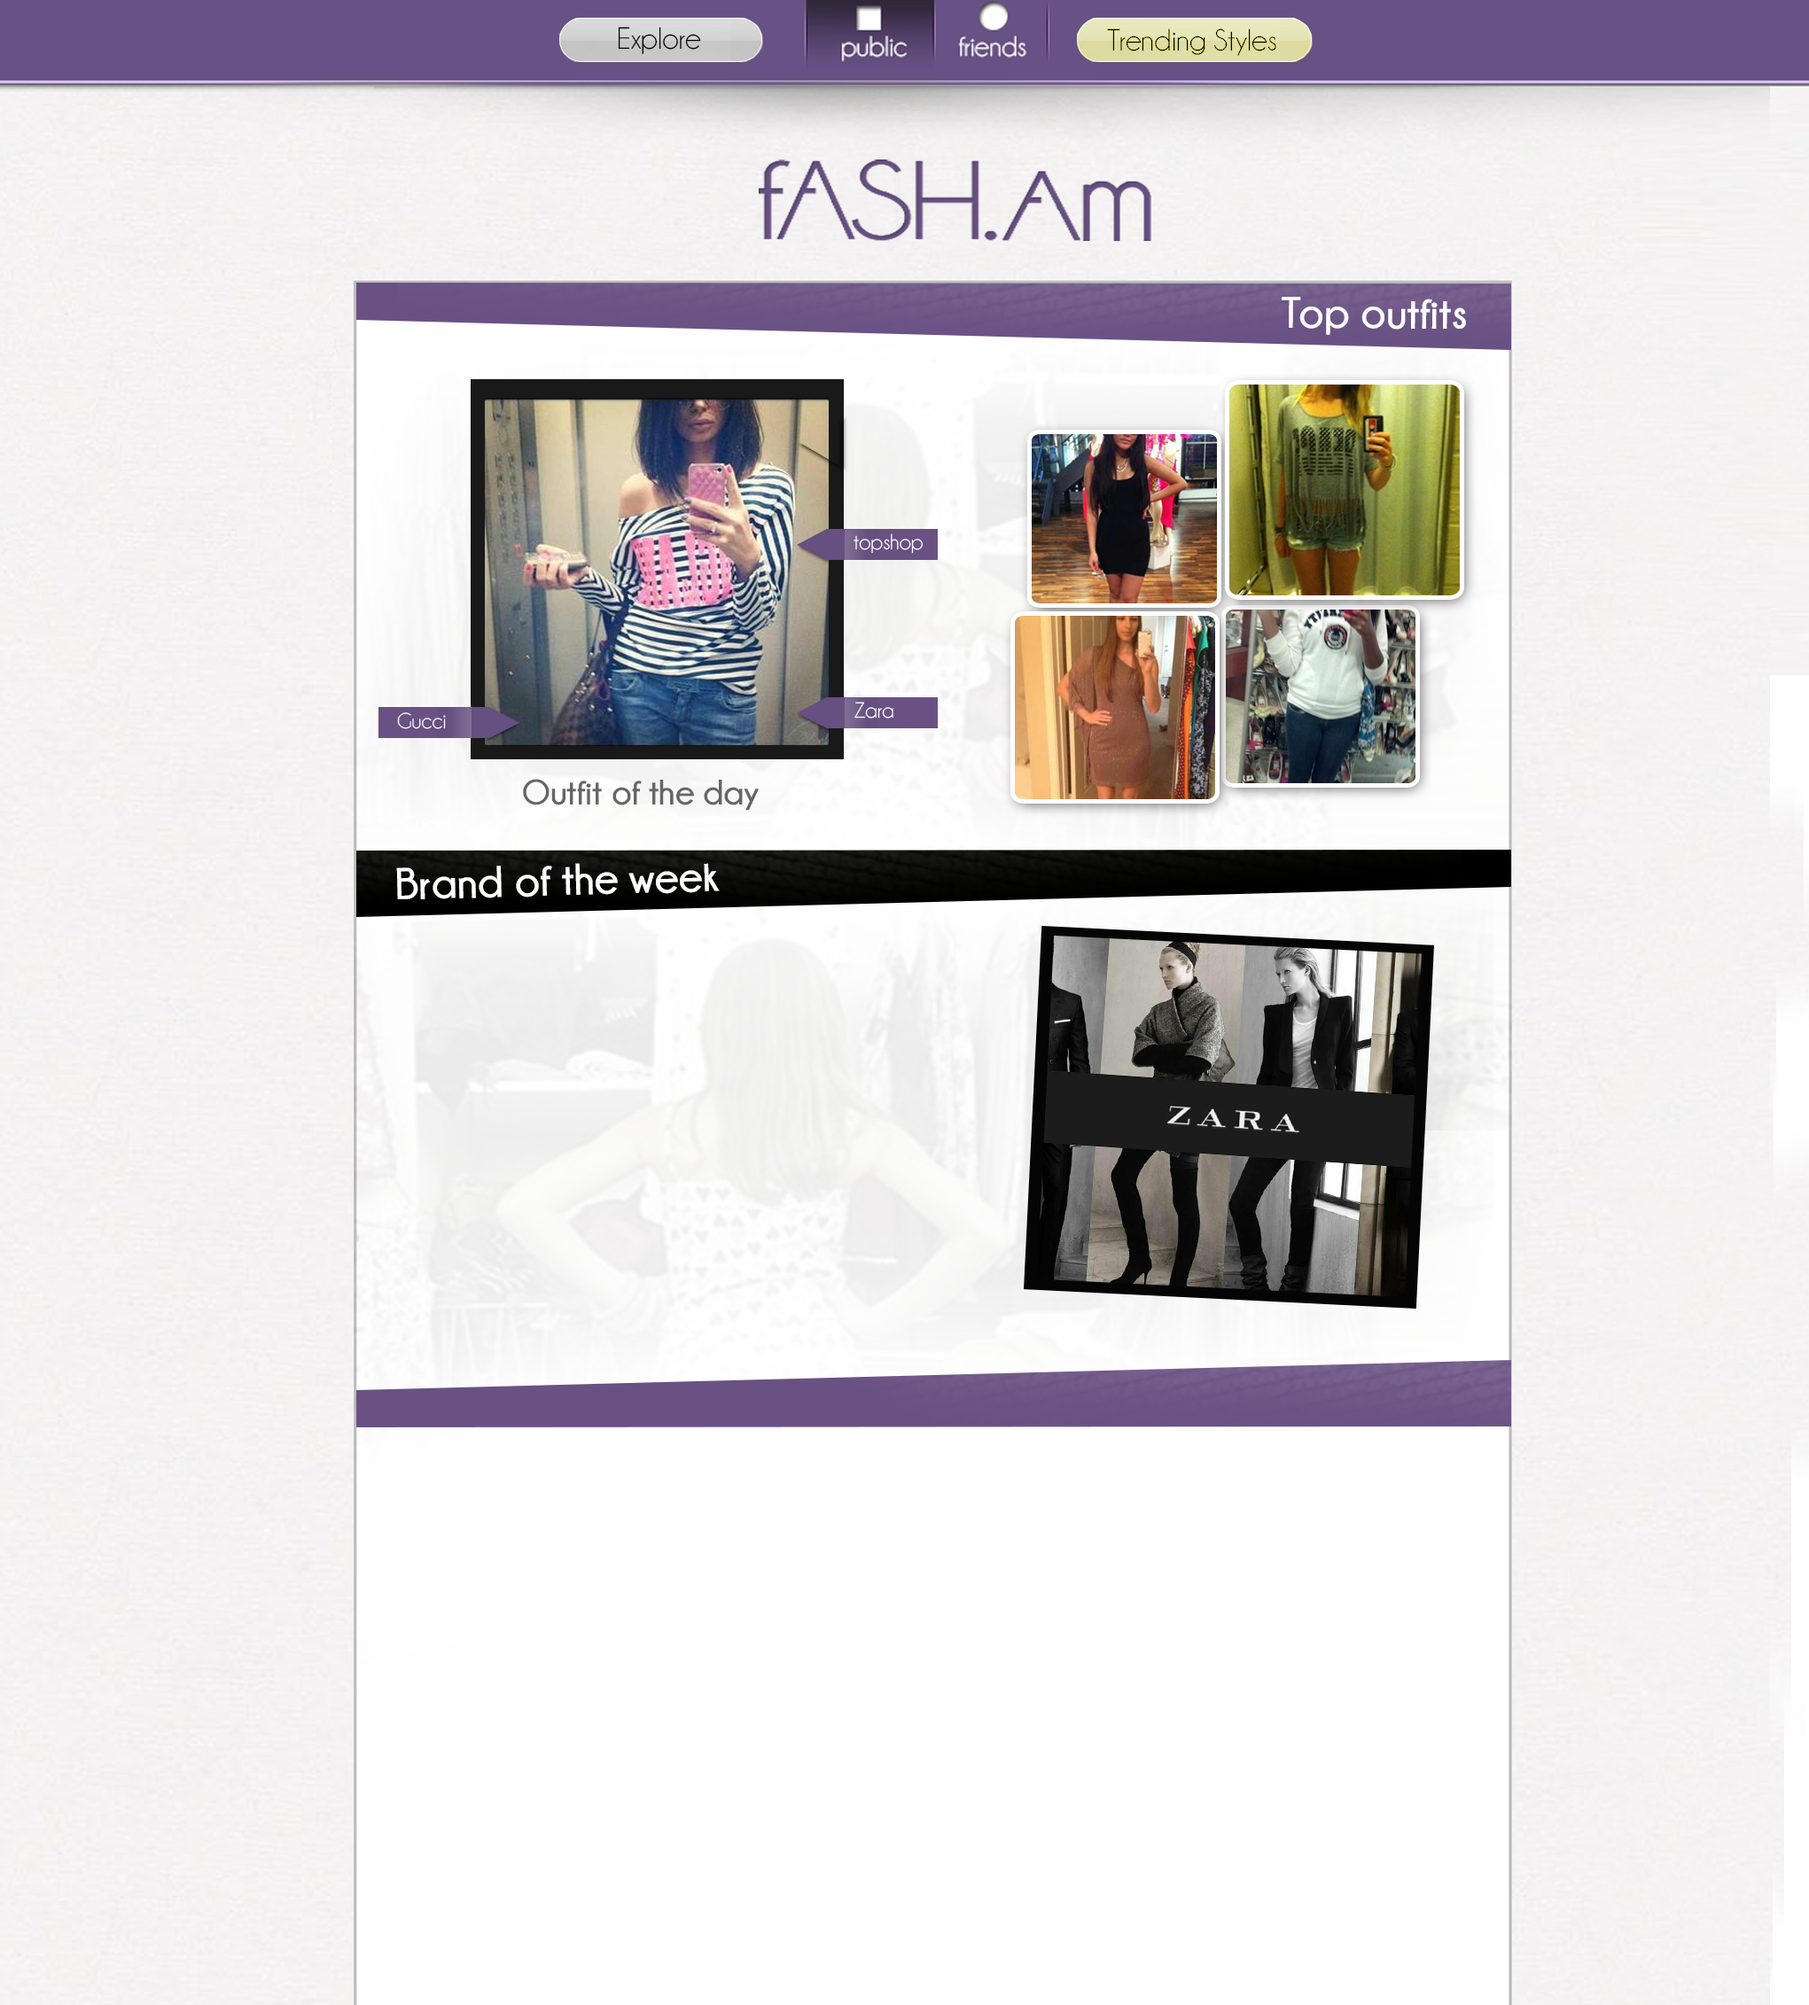
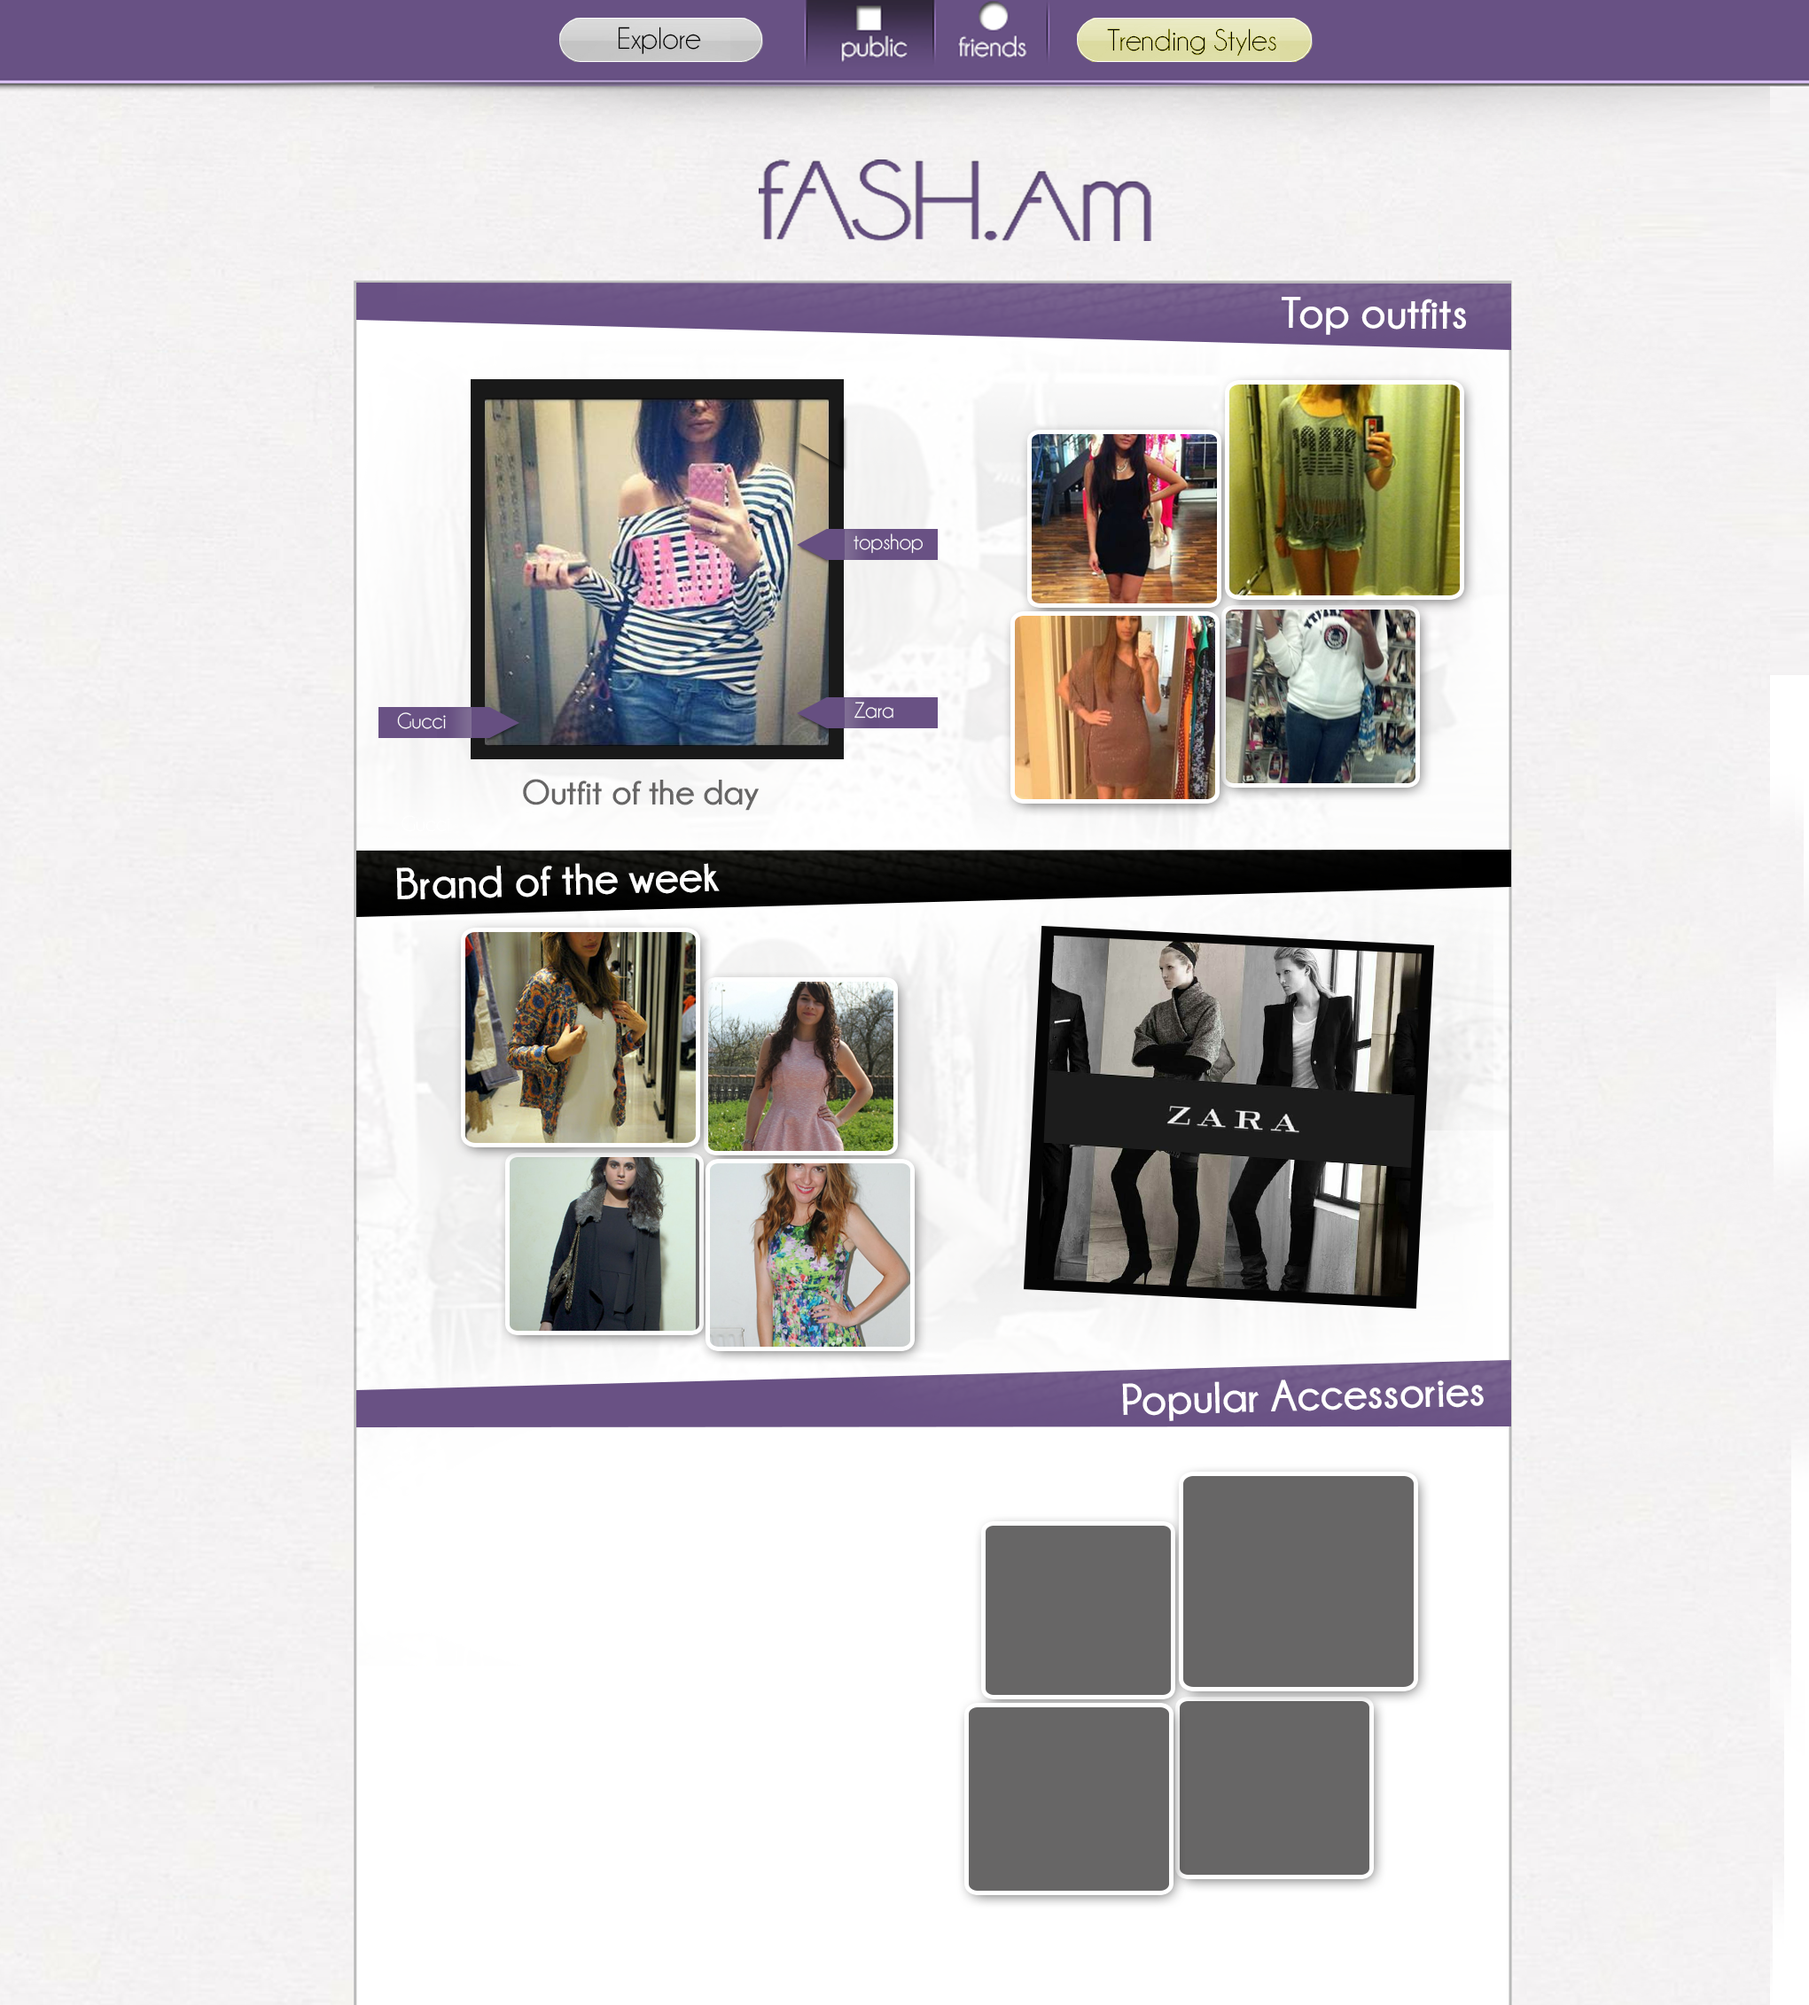
Added more photos

Changed region(s): [[0.5247, 0.6805, 0.8334, 0.9589], [0.2469, 0.464, 0.5247, 0.6805], [0.463, 0.0309, 0.5247, 0.0619]]

diff --git a/templates/home.html b/templates/home.html
@@ -43,7 +43,7 @@
 
               <div id="description">
 	              <div id = "TITLE" class="textALLHead"> {{post.desc}}  
-	               <div class="textALLUser" id="USER"> by {{post.aid}}  </div>    </br>
+	               <div class="textALLUser" id="USER"> by {{post.aid}}  </div>    </br></br>
 	                 <div id="blueTags{{i}}">
 	                  	<div class="category">  <span id="TAG" class="badge badge-important" style="font-size:15px; font-family:Helvetica">armani </span> </div>
 	                  	<div class="category">  <span id="TAG" class="badge badge-important" style="font-size:15px; font-family:Helvetica">shirt </span> </div>
@@ -62,13 +62,15 @@
           <tr> <td> 
               <div class="imagesALL">      
 
-                    <a class="thumbnail" style="float:left;"  onclick="makeSelection('IMAGE1','IMAGE2');" > 
+                    <a class="thumbnail" style="float:left;"  onclick="makeSelection('IMAGE1','IMAGE2');ShowHide('blueTags1','redTags1');" > 
                         <div class="textOverRed" id="textOverId"><div class="textOverT"> vote!</div></div>
-                        <img id="IMAGE1" src="static/imgs/hardcoded/image1.jpg" width="250PX" onmouseover="showTip('textOverId')"  onmouseout="hideTip('textOverId')"  > 
+                        <img id="IMAGE1" src="static/imgs/hardcoded/image1.jpg" width="250PX" onmouseover="showTip('textOverId');ShowHide('blueTags1','redTags1');"  
+                        onmouseout="hideTip('textOverId'); showTagsALL('redTags1','blueTags1');"  > 
                     </a>
-                   <a class="thumbnail" style="float:left;" onclick="makeSelection('IMAGE2','IMAGE1');">
+                   <a class="thumbnail" style="float:left;" onclick="makeSelection('IMAGE2','IMAGE1');ShowHide('redTags1','blueTags1');">
                         <div class="textOverBlue" id="textOverId2"><div class="textOverT"> vote!</div></div>
-                        <img id="IMAGE2"  src="static/imgs/hardcoded/image2.jpg" width="250PX" onmouseover="showTip('textOverId2')"  onmouseout="hideTip('textOverId2')" >
+                        <img id="IMAGE2"  src="static/imgs/hardcoded/image2.jpg" width="250PX" onmouseover="showTip('textOverId2');ShowHide('redTags1','blueTags1');" 
+                         onmouseout="hideTip('textOverId2');showTagsALL('redTags1','blueTags1');" >
                    </a>
 
               </div>     
@@ -76,15 +78,12 @@
               <div id="description">
               <div id = "TITLE" class="textALLHead"> Date! HELP!!  
                 <div class="textALLUser" id="USER"> by Elle  </div>    </br>
-                 <div>
-    
-
-  
+                 <div id="blueTags1">
                   <div class="category">  <span id="TAG" class="badge badge-important" style="font-size:15px; font-family:Helvetica">Fcuk Jeans </span> </div>
                   <div class="category">  <span id="TAG" class="badge badge-important" style="font-size:15px; font-family:Helvetica">All Stars shoes </span> </div>
                </div> 
 
-                <div>
+                <div id="redTags1">
                   <div class="category">  <span id="TAG" class="badge badge-info" style="font-size:15px; font-family:Helvetica">Topshop dress</span> </div>
                   <div class="category">  <span id="TAG" class="badge badge-info" style="font-size:15px; font-family:Helvetica">Fcuk Jeans </span> </div>
                 </div>  
@@ -99,13 +98,13 @@
    
                     <a class="thumbnail" style="float:left;" onclick="makeSelection('IMAGE3','IMAGE4');" >
                         <div class="textOverRed" id="textOverId3"><div class="textOverT"> vote!</div></div>
-                        <img id="IMAGE3" alt="N/A"  src="static/imgs/hardcoded/image3.jpg" width="250PX" onmouseover="showTip('textOverId3')"  onmouseout="hideTip('textOverId3')"> 
+                        <img id="IMAGE3" alt="N/A"  src="static/imgs/hardcoded/image3.jpg" width="250PX" onmouseover="showTip('textOverId3');ShowHide('redTags2','blueTags2');"  onmouseout="hideTip('textOverId3');showTagsALL('redTags2','blueTags2');"> 
                      </a>
 
 
                     <a class="thumbnail" style="float:left;" onclick="makeSelection('IMAGE4','IMAGE3');">
                         <div class="textOverBlue" id="textOverId4"><div class="textOverT"> vote!</div></div>
-                        <img id="IMAGE4" alt="N/A"  src="static/imgs/hardcoded/image4.jpg" width="250PX" onmouseover="showTip('textOverId4')"  onmouseout="hideTip('textOverId4')">
+                        <img id="IMAGE4" alt="N/A"  src="static/imgs/hardcoded/image4.jpg" width="250PX" onmouseover="showTip('textOverId4');ShowHide('blueTags2','redTags2');"  onmouseout="hideTip('textOverId4');showTagsALL('redTags2','blueTags2');">
                     </a>
               </div>     
 
@@ -113,15 +112,15 @@
               <div id = "TITLE" class="textALLHead"> Night out (bar)  
                 <div class="textALLUser" id="USER"> by Joanna  </div>    
 
-                <div>
+                <div id="redTags2">
                   <div class="category">  <span id="TAG" class="badge badge-important" style="font-size:15px; font-family:Helvetica">Topshop dress</span> </div>
                   <div class="category">  <span id="TAG" class="badge badge-important" style="font-size:15px; font-family:Helvetica">Fcuk Jeans </span> </div>
                   <div class="category">  <span id="TAG" class="badge badge-important" style="font-size:15px; font-family:Helvetica">All Stars shoes </span> </div>
                </div> 
 
-                <div>
+                <div id="blueTags2">
                   <div class="category">  <span id="TAG" class="badge badge-info" style="font-size:15px; font-family:Helvetica">H&M accessories</span> </div>
-                  <div class="category">  <span id="TAG" class="badge badge-info" style="font-size:15px; font-family:Helvetica">Fcuk Jeans </span> </div>
+                  <div class="category">  <span id="TAG" class="badge badge-info" style="font-size:15px; font-family:Helvetica">D&G Jeans </span> </div>
                   <div class="category">  <span id="TAG" class="badge badge-info" style="font-size:15px; font-family:Helvetica">All Stars shoes </span> </div>
                 </div>  
 
@@ -129,6 +128,37 @@
               
               </div>
           </td> </tr>  
+
+          <tr> <td>
+            <div class="imagesALL">                 
+   
+                     <a class="thumbnail" style="float:left;" onclick="makeSelection('IMAGE5','IMAGE6');" >
+                        <div class="textOverRed" id="textOverId5"><div class="textOverT"> vote!</div></div>
+                        <img id="IMAGE5" src="static/imgs/hardcoded/image5.jpg" width="250PX" onmouseover="showTip('textOverId5');ShowHide('redTags3','blueTags3');"  onmouseout="hideTip('textOverId5');showTagsALL('redTags3','blueTags3');"> 
+                     </a>
+
+
+                    <a class="thumbnail" style="float:left;" onclick="makeSelection('IMAGE6','IMAGE5');">
+                        <div class="textOverBlue" id="textOverId6"><div class="textOverT"> vote!</div></div>
+                        <img id="IMAGE6" src="static/imgs/hardcoded/image6.jpg" width="250pX" onmouseover="showTip('textOverId6');ShowHide('blueTags3','redTags3');"  onmouseout="hideTip('textOverId6');showTagsALL('redTags3','blueTags3');">
+                    </a>
+              </div>     
+
+              <div id="description">
+              <div id = "TITLE" class="textALLHead"> Formal meeting  
+                <div class="textALLUser" id="USER"> by Maria </div>    
+
+                <div class="category" id="redTags3">  <span id="TAG" class="badge badge-important" style="font-size:15px; font-family:Helvetica"> Gucci skirt </span> </div>
+               
+                      <div id="blueTags3">
+                  <div class="category">  <span id="TAG" class="badge badge-info" style="font-size:15px; font-family:Helvetica">Topshop dress</span> </div>
+                  <div class="category">  <span id="TAG" class="badge badge-info" style="font-size:15px; font-family:Helvetica">Fcuk Jeans </span> </div>
+                </div>  </div> 
+
+              
+              </div>      
+
+          </td> </tr>
 	 	 
       </table>
      </div>
